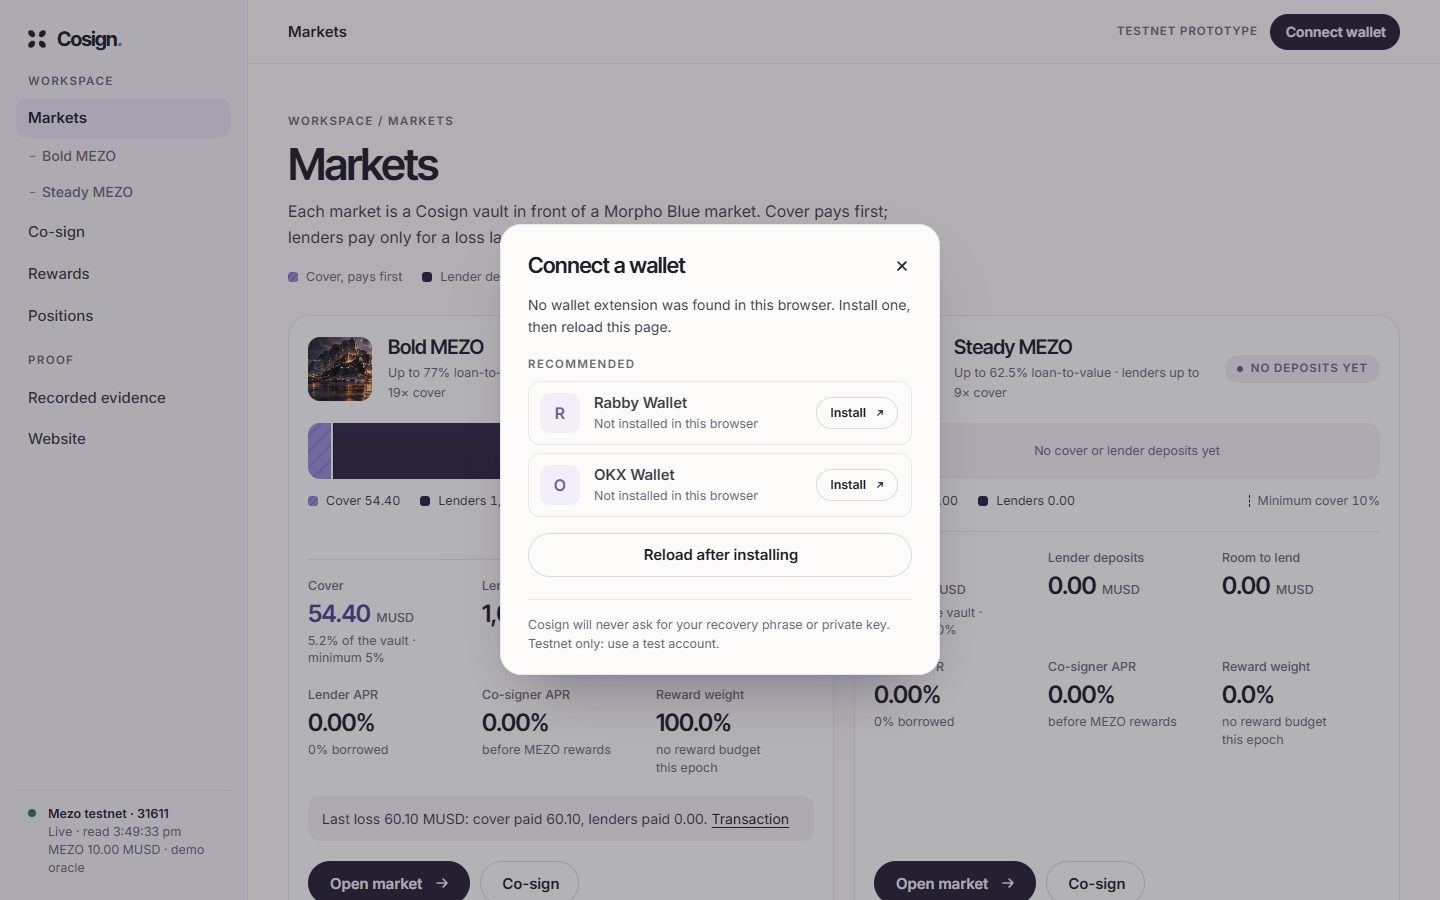
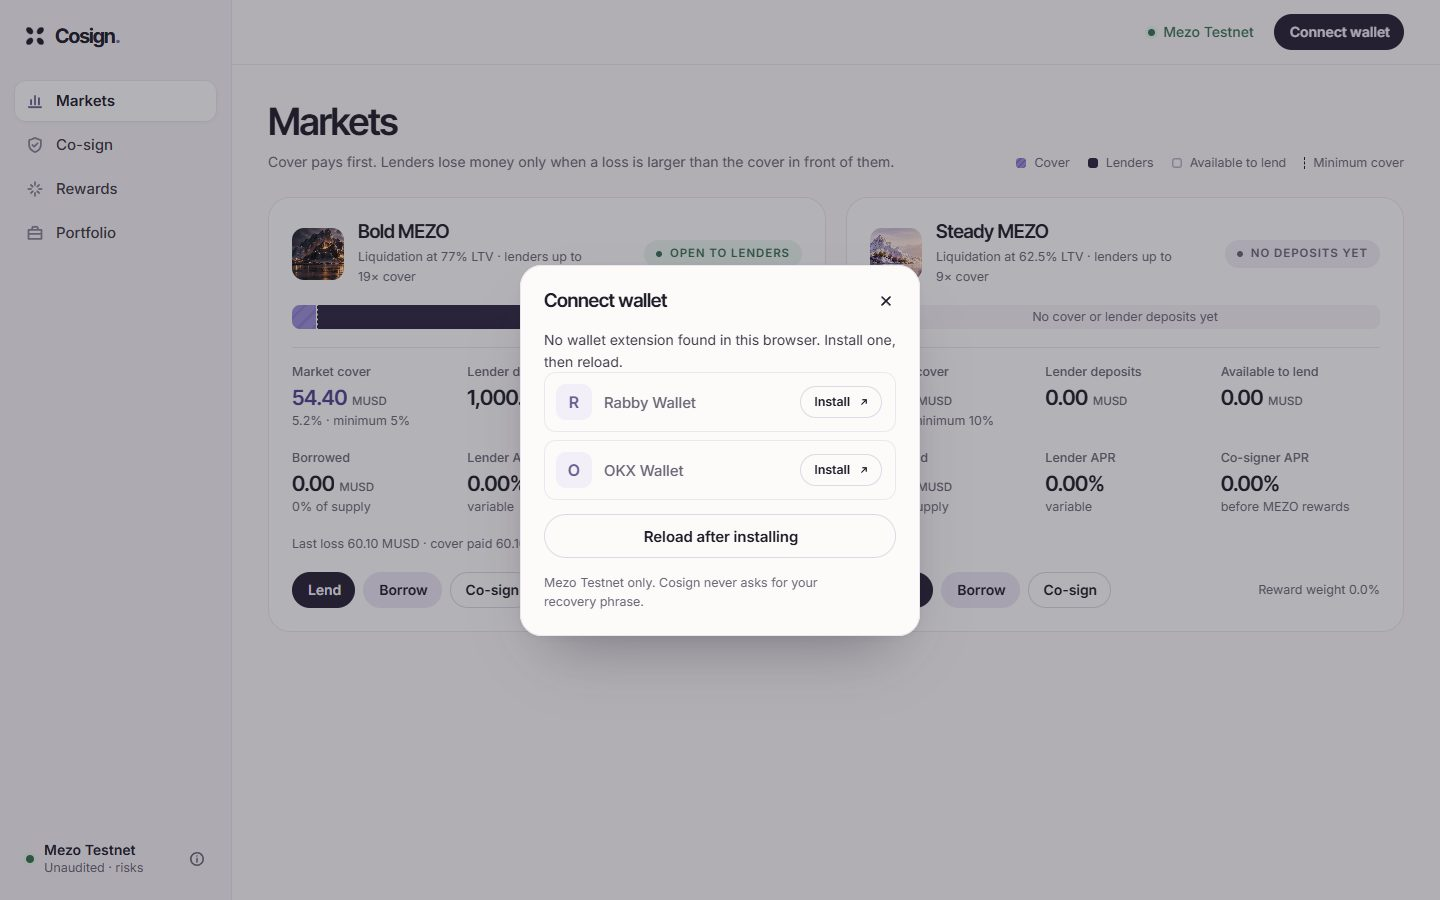
docs: current app screenshots (Portfolio replaces Positions)

diff --git a/README.md b/README.md
@@ -64,10 +64,10 @@ The website replays a real testnet liquidation step by step from recorded transa
 
 | | |
 |---|---|
-| <img src="docs/screenshots/app-cosign-cover.jpg" alt="Co-sign page: cover position and partial withdrawal"> | <img src="docs/screenshots/app-rewards.jpg" alt="Rewards page: epoch, fund and distribute, claim"> |
+| <img src="docs/screenshots/app-cosign-cover.jpg" alt="Co-sign page: your cover against market cover, with separate add and withdraw actions"> | <img src="docs/screenshots/app-rewards.jpg" alt="Rewards page: epoch, fund and distribute, claim"> |
 | <img src="docs/screenshots/app-markets.jpg" alt="Markets overview with two markets"> | <img src="docs/screenshots/app-evidence.jpg" alt="Recorded evidence page linking transactions"> |
 
-More captures (mobile, wallet dialog, positions) and how they were made: [docs/screenshots](docs/screenshots/README.md). The artwork in these images is provisional (low-resolution placeholders awaiting final files; see [docs/ASSET_REVIEW.md](docs/ASSET_REVIEW.md)).
+More captures (mobile, wallet dialog, portfolio) and how they were made: [docs/screenshots](docs/screenshots/README.md). The artwork in these images is provisional (low-resolution placeholders awaiting final files; see [docs/ASSET_REVIEW.md](docs/ASSET_REVIEW.md)).
 
 ## Real testnet deployment and evidence
 

diff --git a/docs/screenshots/README.md b/docs/screenshots/README.md
@@ -11,7 +11,7 @@ Captured from the production build (`npm run build && npm run preview`) against 
 | `app-market-bold.jpg`, `app-market-bold-mobile.jpg` | Bold MEZO market |
 | `app-evidence.jpg` | Recorded evidence page |
 | `app-wallet-dialog.jpg` | Wallet dialog in a browser with no wallet installed |
-| `app-cosign-cover.jpg`, `app-rewards.jpg`, `app-positions.jpg` | Connected views |
+| `app-cosign-cover.jpg`, `app-rewards.jpg`, `app-portfolio.jpg` | Connected views |
 
 **Connected views are not wallet evidence.** They were captured with a read-only stand-in provider that reports the public address of the testnet account used in the real-wallet sessions. It cannot sign or send anything. Real-wallet results are in [../WALLET_ACCEPTANCE.md](../WALLET_ACCEPTANCE.md).
 
